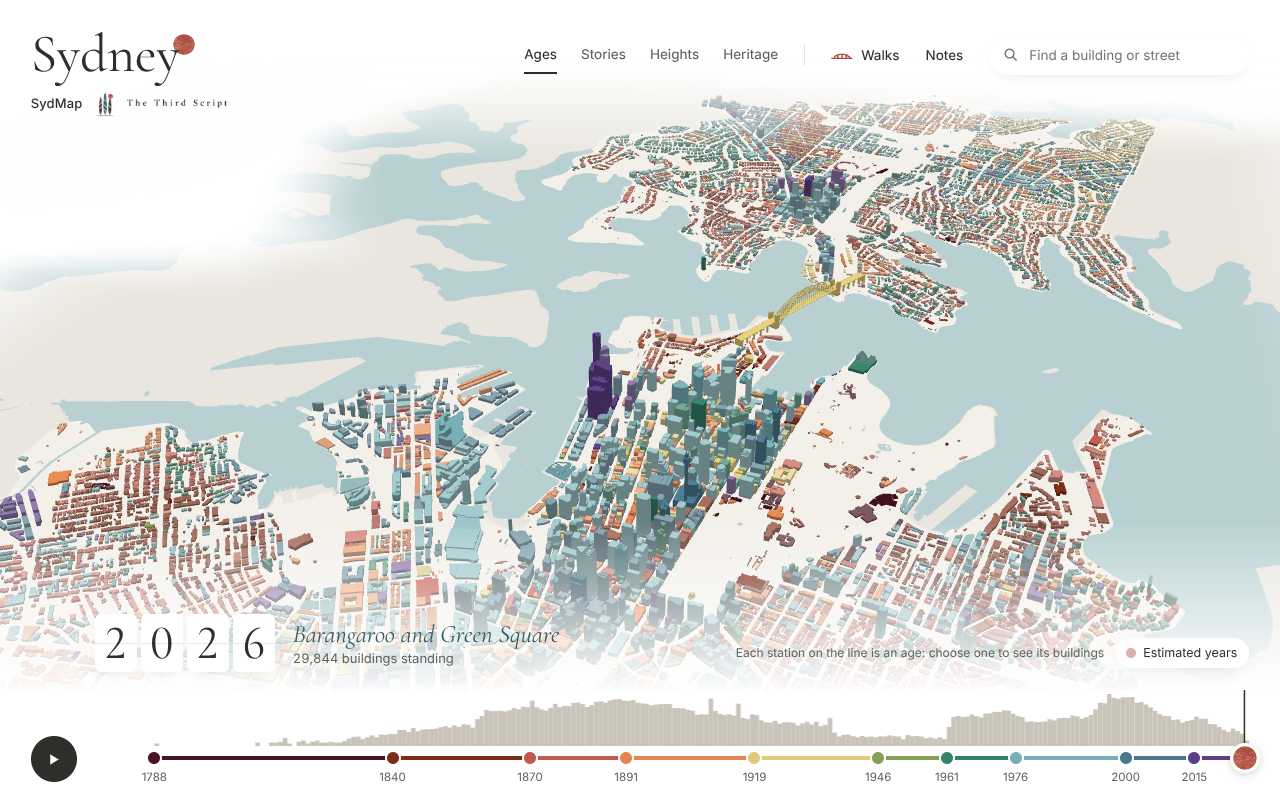
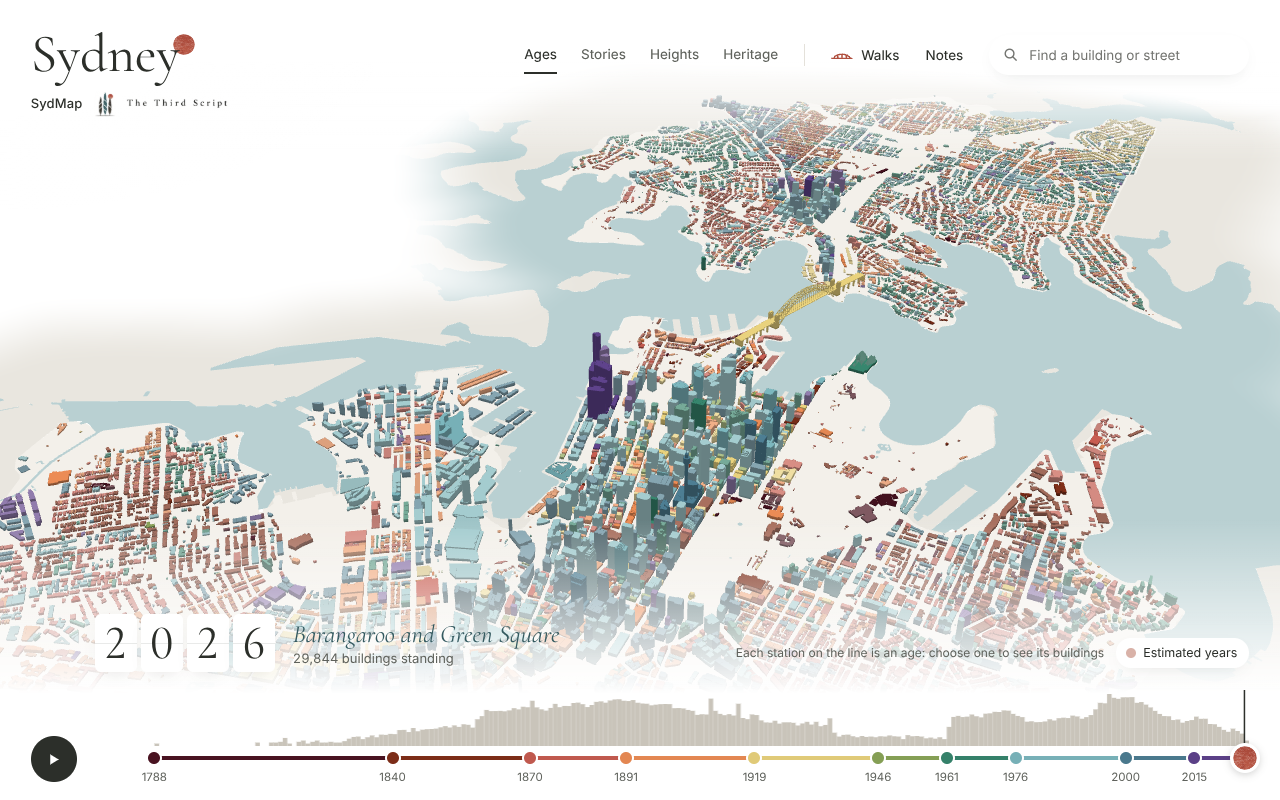
Give the map's edge no straight sides, zoomed in or out
With land and water fading out to 2.4 km, the ground reached the edge of the
mapped area and the fade there drew straight sides when zoomed out. The
ground now fades from 650 m to 1.6 km beyond the nearest building and over
the last 700 m of the mapped area, with a slow wobble through both, so the
edge follows the city all the way round.

Claude-Session: https://claude.ai/code/session_0173dqPRDT7272Y1ZudC3e9y

Changed region(s): [[0.0, 0.125, 0.4062, 0.4062]]

diff --git a/web/app.js b/web/app.js
@@ -128,15 +128,20 @@ const EDGE_GLSL = `
   uniform sampler2D uEdge;
   uniform vec2 uEdgeMin, uEdgeSize;
   uniform vec2 uFadeRange;
+  // A slow wobble of a few hundred metres, so no edge of the fade runs straight.
+  float wobble(vec2 p) {
+    return 0.55 * sin(p.x / 830.0 + 1.3) * sin(p.y / 1070.0 + 0.7) + 0.45 * sin((p.x - p.y) / 1530.0 + 2.1);
+  }
   float edgeFade(vec2 p) {
     float metres = texture2D(uEdge, (p - uEdgeMin) / uEdgeSize).r * 2550.0;
-    // Also into the wall over the last 1.5 km before the mapped ground ends, so open water never stops in a straight line.
+    // Also into the wall before the mapped ground ends (only 700 m past the last buildings in the north).
     vec2 q = min(p - uEdgeMin, uEdgeMin + uEdgeSize - p);
-    return max(smoothstep(uFadeRange.x, uFadeRange.y, metres), 1.0 - smoothstep(0.0, 1500.0, min(q.x, q.y)));
+    float w = wobble(p);
+    return max(smoothstep(uFadeRange.x, uFadeRange.y, metres + 220.0 * w), 1.0 - smoothstep(0.0, 700.0, min(q.x, q.y) + 260.0 * w));
   }`;
-// Land and water fade together, from 1.4 km beyond the nearest building to 2.4 km: the harbour between the shores
+// Land and water fade together, from 650 m beyond the nearest building to 1.6 km: the harbour between the shores
 // stays clear, and the far shores and the open water go into the wall as one.
-function groundMaterial(color, from = 1400, to = 2400) {
+function groundMaterial(color, from = 650, to = 1600) {
   return new THREE.ShaderMaterial({
     uniforms: { uColor: { value: new THREE.Color(color) }, uWall: { value: new THREE.Color(SKY) }, uFadeRange: { value: new THREE.Vector2(from, to) }, ...EDGE },
     vertexShader: 'varying vec2 vXZ; void main() { vec4 w = modelMatrix * vec4(position, 1.0); vXZ = w.xz; gl_Position = projectionMatrix * viewMatrix * w; }',

diff --git a/DESIGN.md b/DESIGN.md
@@ -240,8 +240,9 @@ Sheets (the dock, the find field, flaps, chips, the hover label) are paper with 
 border: `0 6px 16px -8px` at 14% and `0 16px 36px -20px` at 22% for small sheets, `0 24px 48px -20px` at 28% for the
 dock and dialogs. The wall comes forward over the model at the top and bottom (veils) and in a soft patch behind the
 name. The ground (land and water together) fades into the wall with distance from the nearest building (a smoothed
-50 m distance field, from 1.4 km out to 2.4 km; `EDGE` and `edgeFade` in `app.js`), and over the last 1.5 km before the
-mapped area ends, so its edge follows the councils' outline, never a box, and the harbour between the shores stays clear. The camera stops at 22 km so the far shores stay out of view.
+50 m distance field, from 650 m out to 1.6 km; `EDGE` and `edgeFade` in `app.js`), and over the last 700 m before the
+mapped area ends; a slow wobble of a few hundred metres runs through both, so the edge follows the councils' outline
+and never runs straight, and the harbour between the shores stays clear. The camera stops at 22 km so the far shores stay out of view.
 
 ## Shapes
 
